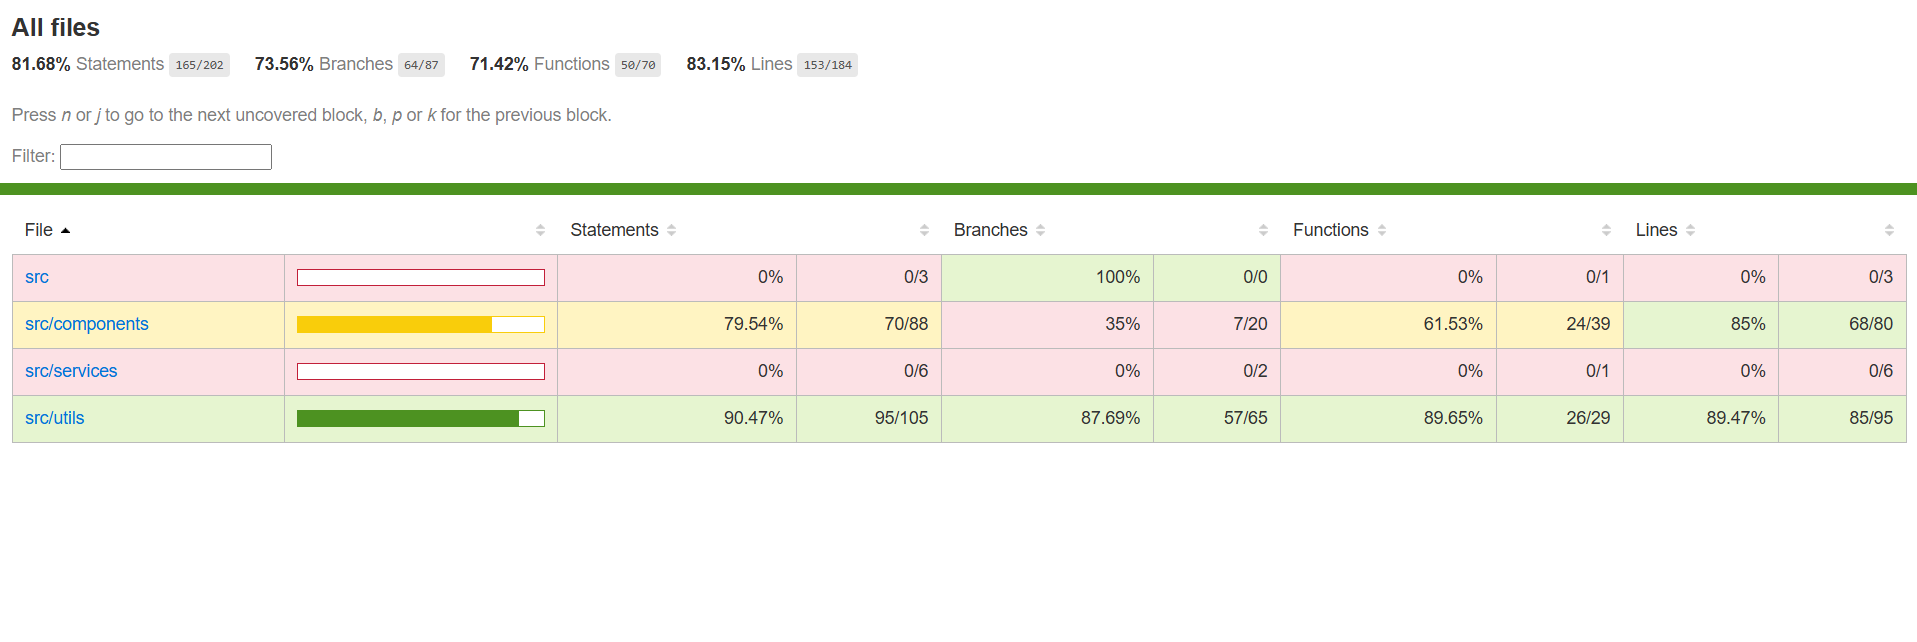
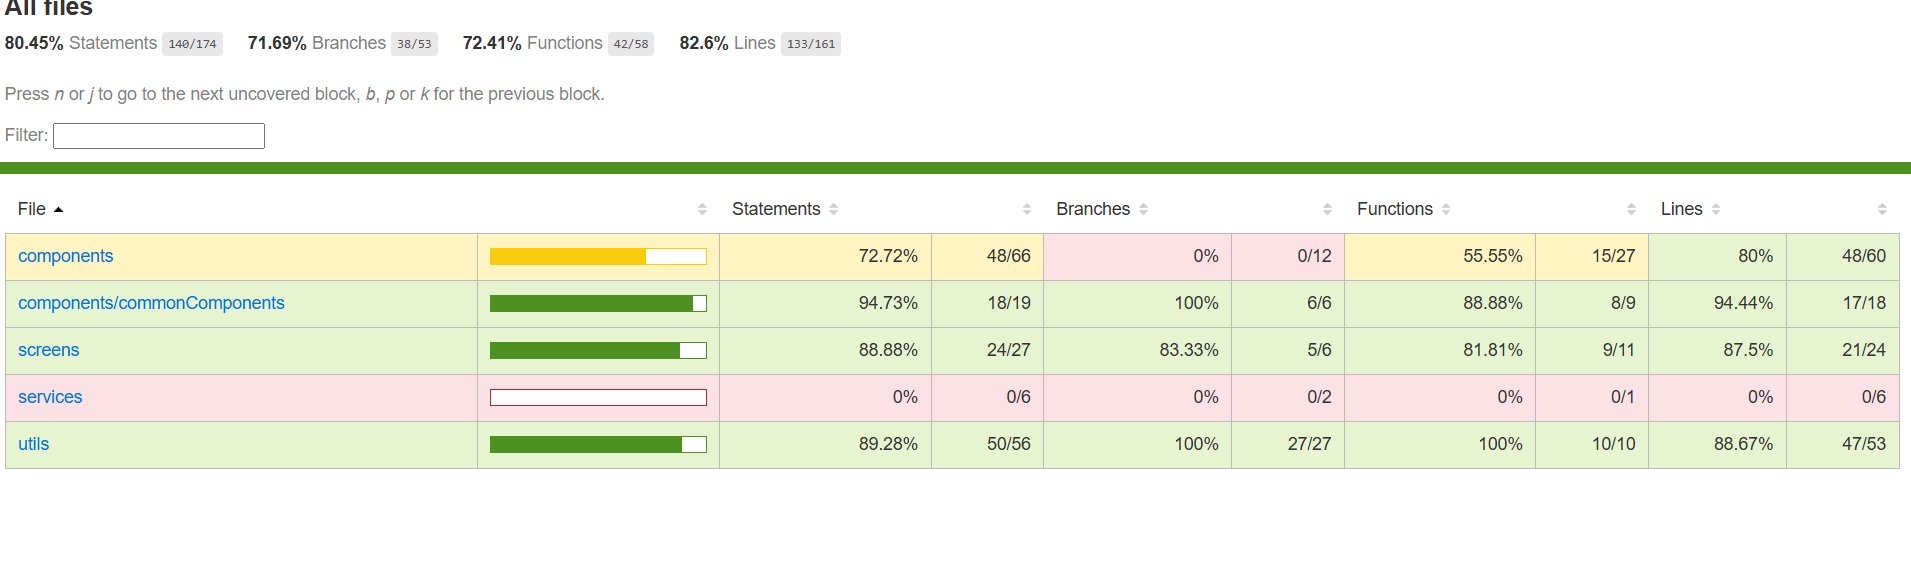
Updated test files and Readme file.

diff --git a/src/test/home.test.js b/src/test/home.test.js
@@ -1,6 +1,6 @@
 import React from "react";
-import { render, screen, act } from "@testing-library/react";
-import Home from "../components/Home";
+import { render, screen } from "@testing-library/react";
+import Home from "../screens/Home";
 import { fetchTransactions } from "../services/transaction.service";
 
 // Sample transactions data for testing.
@@ -50,7 +50,7 @@ jest.mock("../components/MonthlyRewards", () => (props) => (
 jest.mock("../components/TotalRewards", () => (props) => (
   <div data-testid="totalRewards-component">TotalRewards Component</div>
 ));
-jest.mock("../utils/GlobalFilter", () => (props) => (
+jest.mock("../components/commonComponents/GlobalFilter", () => (props) => (
   <div data-testid="global-filter">GlobalFilter Component</div>
 ));
 
@@ -59,24 +59,18 @@ describe("Home Component", () => {
     fetchTransactions.mockReset();
   });
 
-  // Test that an error message is displayed when fetchTransactions fails.
-  it("renders error message when fetch fails", async () => {
+  // When fetchTransactions fails, Home still renders GlobalFilter (error handling strategy may vary)
+  it("renders GlobalFilter when fetch fails", async () => {
     fetchTransactions.mockRejectedValue(new Error("Fetch error"));
-    // eslint-disable-next-line testing-library/no-unnecessary-act
-    await act(async () => {
-      render(<Home currentTab="transactions" />);
-    });
-    const errorMessage = await screen.findByText(/Error: Fetch error/i);
-    expect(errorMessage).toBeInTheDocument();
+    render(<Home currentTab="transactions" />);
+    const globalFilter = await screen.findByTestId("global-filter");
+    expect(globalFilter).toBeInTheDocument();
   });
 
   // Test that the Transactions view is rendered when currentTab is "transactions".
   it("renders Transactions view when currentTab is transactions", async () => {
     fetchTransactions.mockResolvedValue(mockTransactions);
-    // eslint-disable-next-line testing-library/no-unnecessary-act
-    await act(async () => {
-      render(<Home currentTab="transactions" />);
-    });
+    render(<Home currentTab="transactions" />);
     const transactionsComponent = await screen.findByTestId("transactions-component");
     expect(transactionsComponent).toBeInTheDocument();
     expect(screen.getByTestId("global-filter")).toBeInTheDocument();
@@ -85,10 +79,7 @@ describe("Home Component", () => {
   // Test that the MonthlyRewards view is rendered when currentTab is "monthlyRewards".
   it("renders MonthlyRewards view when currentTab is monthlyRewards", async () => {
     fetchTransactions.mockResolvedValue(mockTransactions);
-    // eslint-disable-next-line testing-library/no-unnecessary-act
-    await act(async () => {
-      render(<Home currentTab="monthlyRewards" />);
-    });
+    render(<Home currentTab="monthlyRewards" />);
     const monthlyRewardsComponent = await screen.findByTestId("monthlyRewards-component");
     expect(monthlyRewardsComponent).toBeInTheDocument();
   });
@@ -96,23 +87,17 @@ describe("Home Component", () => {
   // Test that the TotalRewards view is rendered when currentTab is "totalRewards".
   it("renders TotalRewards view when currentTab is totalRewards", async () => {
     fetchTransactions.mockResolvedValue(mockTransactions);
-    // eslint-disable-next-line testing-library/no-unnecessary-act
-    await act(async () => {
-      render(<Home currentTab="totalRewards" />);
-    });
+    render(<Home currentTab="totalRewards" />);
     const totalRewardsComponent = await screen.findByTestId("totalRewards-component");
     expect(totalRewardsComponent).toBeInTheDocument();
   });
 
-  // When no transactions are fetched, the child component should not render any data.
+  // Negative test: When no transactions are fetched, the child component should not render any data.
+  // Here, we assume that if no transactions are available, the table rows (with data-testid "table-row") will not be present.
   it("renders empty state when fetched transactions array is empty", async () => {
     fetchTransactions.mockResolvedValue([]);
-    // eslint-disable-next-line testing-library/no-unnecessary-act
-    await act(async () => {
-      render(<Home currentTab="transactions" />);
-    });
+    render(<Home currentTab="transactions" />);
     await screen.findByTestId("global-filter");
-    // Since no transactions exist, no table rows should be rendered.
     expect(screen.queryByTestId("table-row")).not.toBeInTheDocument();
   });
 });

diff --git a/src/test/transactionComponent.test.js b/src/test/transactionComponent.test.js
@@ -4,19 +4,21 @@ import Transactions from "../components/Transactions";
 
 describe("Transactions Component", () => {
   const transactions = [
-    { id: 1, customerId: 1, customerName: "Ross", purchaseDate: "2023-01-15", price: 120.65 },
-    { id: 2, customerId: 1, customerName: "Ross", purchaseDate: "2023-01-20", price: 80.34 },
-    { id: 3, customerId: 2, customerName: "Monica", purchaseDate: "2023-02-10", price: 55.76 },
-    { id: 4, customerId: 1, customerName: "Ross", purchaseDate: "2023-02-25", price: 200.12 },
+    { transactionId: 1, customerId: 1, customerName: "Ross", purchaseDate: "2023-01-15", price: 120.65 },
+    { transactionId: 2, customerId: 1, customerName: "Ross", purchaseDate: "2023-01-20", price: 80.34 },
+    { transactionId: 3, customerId: 2, customerName: "Monica", purchaseDate: "2023-02-10", price: 55.76 },
+    { transactionId: 4, customerId: 1, customerName: "Ross", purchaseDate: "2023-02-25", price: 200.12 },
   ];
   const globalFilters = { customerName: "", fromDate: "", toDate: "" };
 
   test("renders table headers", () => {
     render(<Transactions transactions={transactions} globalFilters={globalFilters} />);
+    expect(screen.getByText(/Transaction Id/i)).toBeInTheDocument();
     expect(screen.getByText(/Customer Name/i)).toBeInTheDocument();
     expect(screen.getByText(/Purchase Date/i)).toBeInTheDocument();
     expect(screen.getByText(/Product/i)).toBeInTheDocument();
     expect(screen.getByText(/Price/i)).toBeInTheDocument();
+    expect(screen.getByText(/Reward Points/i)).toBeInTheDocument();
   });
    test("renders no rows when transactions array is empty", () => {
       render(<Transactions transactions={[]} globalFilters={globalFilters} />);

diff --git a/src/test/monthlyRewards.test.js b/src/test/monthlyRewards.test.js
@@ -3,7 +3,7 @@ import { render, screen } from "@testing-library/react";
 import MonthlyRewards from "../components/MonthlyRewards";
 
 // Mock GenericTable.
-jest.mock("../utils/GenericTable", () => (props) => (
+jest.mock("../components/commonComponents/GenericTable", () => (props) => (
   <div data-testid="generic-table">
     {props.data && props.data.map((row, index) => (
       <div key={index} data-testid="table-row">
@@ -33,9 +33,9 @@ describe("MonthlyRewards Component", () => {
     expect(rows).toHaveLength(3);
 
   
-    expect(screen.getByText(/1 - Ross - 1 - 2023/i)).toBeInTheDocument();
-    expect(screen.getByText(/1 - Ross - 2 - 2023/i)).toBeInTheDocument();
-    expect(screen.getByText(/2 - Monica - 2 - 2023/i)).toBeInTheDocument();
+    expect(screen.getByText(/1 - Ross - January - 2023/i)).toBeInTheDocument();
+    expect(screen.getByText(/1 - Ross - February - 2023/i)).toBeInTheDocument();
+    expect(screen.getByText(/2 - Monica - February - 2023/i)).toBeInTheDocument();
   });
 
   //When transactions array is empty no rows should be rendered.

diff --git a/src/test/rewardsCalculator.test.js b/src/test/rewardsCalculator.test.js
@@ -71,7 +71,7 @@ describe("getMonthlyRewards", () => {
       (transaction) =>
         transaction.customerId === 1 &&
         transaction.year === 2023 &&
-        transaction.month === 2
+        transaction.month === "February"
     )[0];
     expect(joeFeb).toBeDefined();
     expect(joeFeb.rewardPoints).toBe(370);
@@ -80,7 +80,7 @@ describe("getMonthlyRewards", () => {
       (transaction) =>
         transaction.customerId === 2 &&
         transaction.year === 2023 &&
-        transaction.month === 2
+        transaction.month === "February"
     )[0];
     expect(chandlerFeb).toBeDefined();
     expect(chandlerFeb.rewardPoints).toBe(15);
@@ -119,7 +119,7 @@ describe("getMonthlyRewards", () => {
     const result = getMonthlyRewards(transactions, filters);
     expect(result).toHaveLength(1);
     expect(result[0].customerName).toBe("Joe");
-    expect(result[0].month).toBe(2);
+    expect(result[0].month).toBe("February");
   });
 });
 

diff --git a/src/screens/Home.js b/src/screens/Home.js
@@ -59,7 +59,6 @@ const Home = ({ currentTab }) => {
   useEffect(() => {
     fetchTransactions()
       .then((data) => {
-        console.log(data);
         setState({
           transactions: data,
           error: null,
@@ -78,7 +77,6 @@ const Home = ({ currentTab }) => {
         }));
       });
   }, []);
-
   // Renders the appropriate view based on the currentTab prop.
   const renderView = () => {
     switch (currentTab) {

diff --git a/src/test/globalFilterComponent.test.js b/src/test/globalFilterComponent.test.js
@@ -1,6 +1,6 @@
 import React from "react";
 import { render, screen, fireEvent } from "@testing-library/react";
-import GlobalFilter from "../utils/GlobalFilter";
+import GlobalFilter from "../components/commonComponents/GlobalFilter";
 
 describe("GlobalFilter Component", () => {
   const initialFilters = { customerName: "", fromDate: "", toDate: "" };

diff --git a/src/components/Transactions.js b/src/components/Transactions.js
@@ -99,7 +99,7 @@ const Transactions = ({ transactions, globalFilters }) => {
           rowsPerPage: pagination.rowsPerPage,
           onPageChange: handleChangePage,
         }}
-        rowKey={(row, idx) => idx}
+        rowKey={(row, idx) => row.transactionId}
       />
     </div>
   );

diff --git a/src/components/MonthlyRewards.js b/src/components/MonthlyRewards.js
@@ -86,7 +86,6 @@ const MonthlyRewards = ({ transactions, globalFilters }) => {
           rowsPerPage: pagination.rowsPerPage,
           onPageChange: handleChangePage,
         }}
-        rowKey={(row, idx) => idx}
       />
     </div>
   );

diff --git a/src/components/TotalRewards.js b/src/components/TotalRewards.js
@@ -81,7 +81,6 @@ const TotalRewards = ({ transactions, globalFilters }) => {
           rowsPerPage: pagination.rowsPerPage,
           onPageChange: handleChangePage,
         }}
-        rowKey={(row, idx) => idx}
       />
     </div>
   );

diff --git a/README.md b/README.md
@@ -34,17 +34,47 @@ A React-based system that calculates and displays reward points earned by custom
 A overview of the project's folder structure:
 
 reward-tracking-system
-![alt text](./public/projectDirectoryStructure.png)
+├── reward-tracking-system/
+├── ├── public/
+├── │   ├── index.html
+├── ├── src/
+├── │   ├── components/
+├── │   │   ├── commonComponents/
+├── │   │   │   ├── ErrorFallback.js        
+├── │   │   │   ├── GlobalFilter.js         
+├── │   │   │   └── Loader.js               
+├── │   │   ├── NavigationHeader.js         
+├── │   │   ├── Transactions.js             
+├── │   │   ├── MonthlyRewards.js           
+├── │   │   └── TotalRewards.js             
+├── │   ├── screens/
+├── │   │   └── Home.js                     
+├── │   ├── services/
+├── │   │   └── transaction.service.js      
+├── │   ├── utils/
+├── │   │   ├── dataTransformationUtils.js  
+├── │   │   └── rewardsCalculator.js        
+├── │   ├── tests/                          
+├── │   │   ├── Home.test.js
+├── │   │   ├── GlobalFilter.test.js
+├── │   │   ├── Transactions.test.js
+├── │   │   ├── MonthlyRewards.test.js
+├── │   │   └── TotalRewards.test.js
+├── │   ├── App.js                          
+├── │   └── index.js                        
+├── ├── package.json
+├── ├── README.md
 
 ### Screenshot
 
-![Transaction Screenshot](![alt text](./public/screenshots/image-9.png))
-![Transaction Screenshot with Filter](![alt text](./public/screenshots/image-4.png))
-![Transaction Screenshot Errored ](![alt text](./public/screenshots/image-10.png))
-![Mothly Rewards Screenshot](![alt text](./public/screenshots/image-8.png))
-![Mothly Rewards Screenshot with Filter](![alt text](./public/screenshots/image-5.png))
-![Total Rewards Screenshot](![alt text](./public/screenshots/image-7.png))
-![Total Rewards Screenshot with Filter](![alt text](./public/screenshots/image-6.png))
+![Transaction Screenshot](!(./public/screenshots/image-9.png))
+![Transaction Screenshot with Filter](!(./public/screenshots/image-4.png))
+![Transaction Screenshot Errored ](!(./public/screenshots/image-10.png))
+![Mothly Rewards Screenshot](!(./public/screenshots/image-8.png))
+![Mothly Rewards Screenshot with Filter](!(./public/screenshots/image-5.png))
+![Total Rewards Screenshot](!(./public/screenshots/image-7.png))
+![Total Rewards Screenshot with Filter](!(./public/screenshots/image-6.png))
+![Home page error screenshot](!(./public/screenshots/image-11.png))
 
 ### Installation
 
@@ -111,3 +141,6 @@ npm test -- --coverage
 
 - **Generic Table:**
   The GenericTable.js component in the utils folder is used to render tables across multiple views (Transactions, MonthlyRewards, TotalRewards) to ensure a consistent and reusable table UI.
+
+- **Error UI Fallback Component:**
+The  ErrorFallback component is used as a fallback UI within an ErrorBoundary. If any runtime errors occur in the component tree for example, in the Home component or its children, the ErrorBoundary catches the error and renders the ErrorFallback component.
